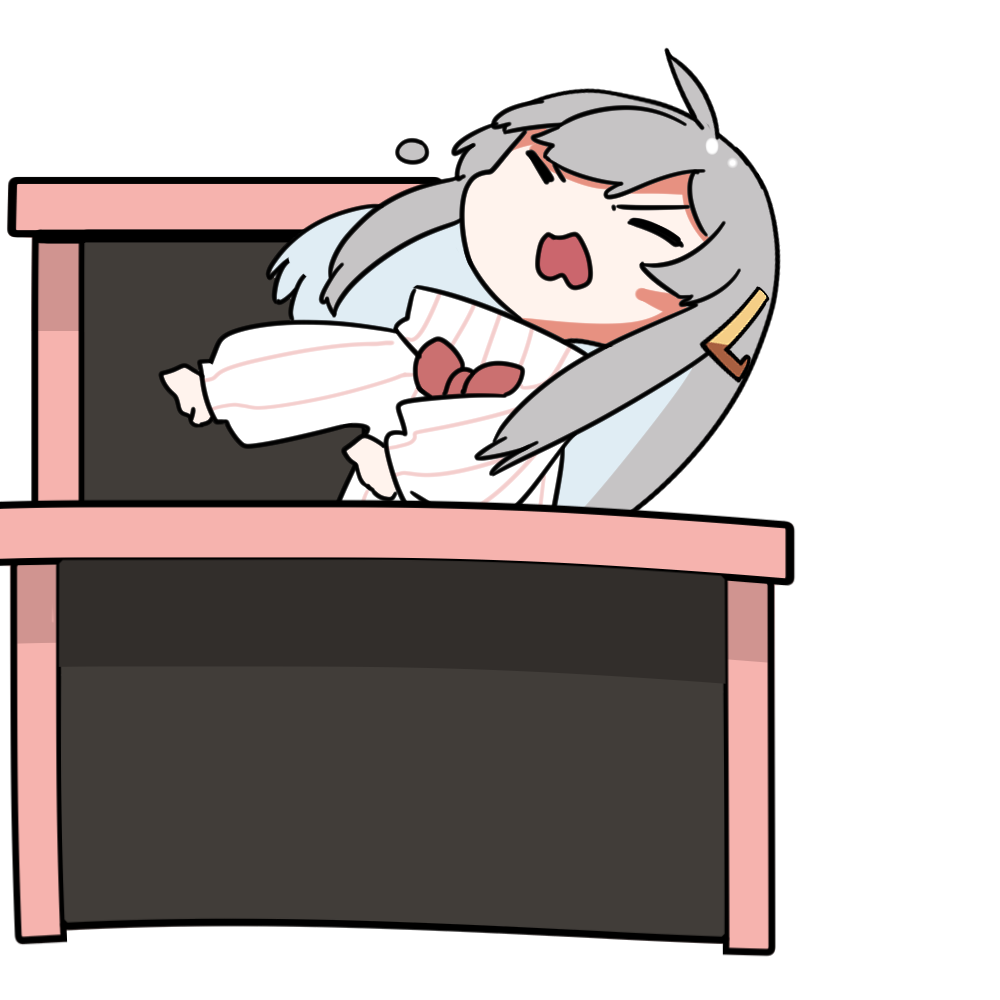
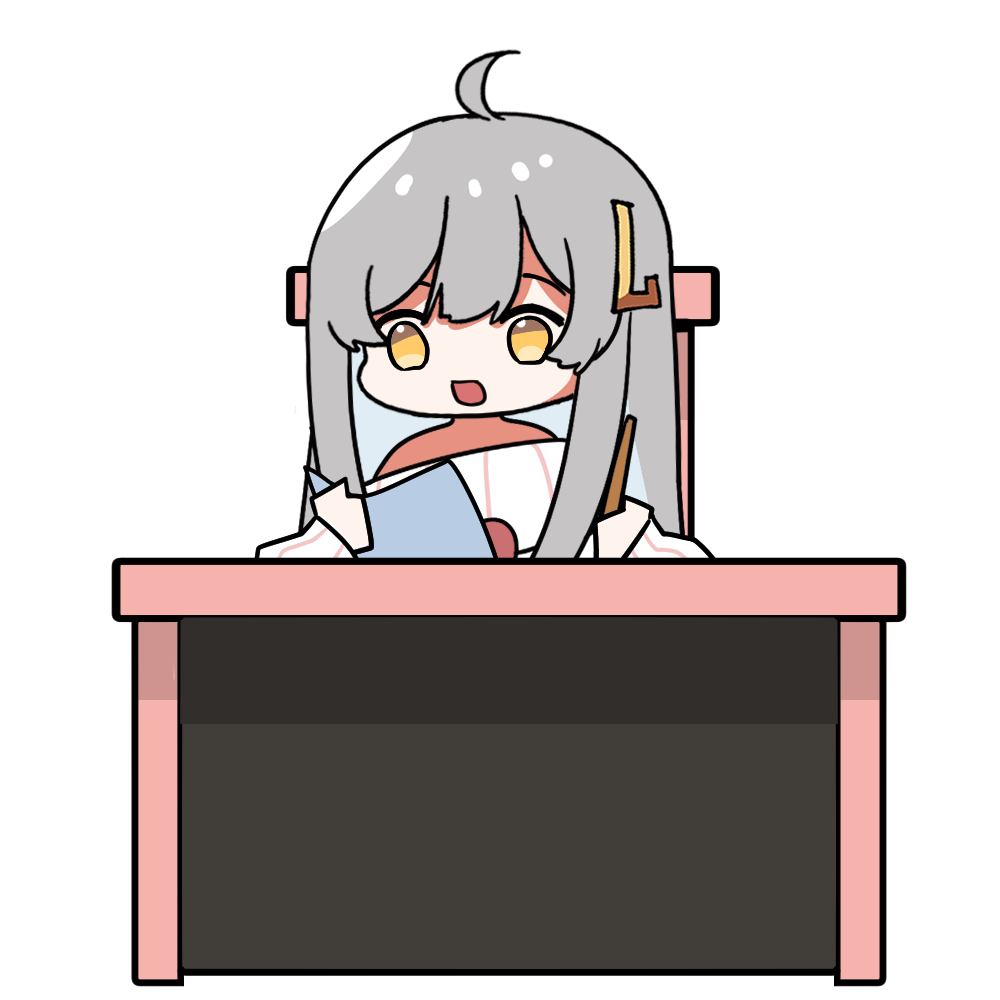
工作动画帧顺序，停止工作

diff --git a/src/ui/interaction/panel.rs b/src/ui/interaction/panel.rs
@@ -9,7 +9,8 @@ use std::rc::Rc;
 use crate::animation::{
     request_study_book_animation, request_study_paint_animation, request_study_research_animation,
     request_study_stop_animation, request_work_clean_animation,
-    request_work_copywriting_animation, request_work_streaming_animation,
+    request_work_copywriting_animation, request_work_stop_animation,
+    request_work_streaming_animation,
 };
 use crate::stats::{InteractType, PetStatsService, StudyMode};
 
@@ -109,6 +110,7 @@ pub struct InteractionPanel {
     study_duration_combo: ComboBoxText,
     action_button: Button,
     stop_study_button: Button,
+    stop_work_button: Button,
     stats_service: PetStatsService,
     on_after_interact: Rc<dyn Fn()>,
 }
@@ -217,6 +219,9 @@ impl InteractionPanel {
         let stop_study_button = Button::with_label("停止学习");
         bottom_actions.append(&stop_study_button);
 
+        let stop_work_button = Button::with_label("停止工作");
+        bottom_actions.append(&stop_work_button);
+
         let close_button = Button::with_label("退出");
         bottom_actions.append(&close_button);
         panel_box.append(&bottom_actions);
@@ -250,6 +255,7 @@ impl InteractionPanel {
             study_duration_combo,
             action_button,
             stop_study_button,
+            stop_work_button,
             stats_service,
             on_after_interact,
         };
@@ -257,6 +263,7 @@ impl InteractionPanel {
         panel.connect_sidebar_handlers();
         panel.connect_action_button();
         panel.connect_stop_study_button();
+        panel.connect_stop_work_button();
         panel.switch_category(category);
 
         panel
@@ -288,6 +295,8 @@ impl InteractionPanel {
             .set_visible(matches!(category, InteractCategory::Study | InteractCategory::Work));
         self.stop_study_button
             .set_visible(category == InteractCategory::Study);
+        self.stop_work_button
+            .set_visible(category == InteractCategory::Work);
         self.status_label.set_text(&format!("当前选项：{}", category.menu_label()));
         self.update_sidebar_state();
     }
@@ -305,6 +314,7 @@ impl InteractionPanel {
             let work_mode_combo = self.work_mode_combo.clone();
             let study_duration_combo = self.study_duration_combo.clone();
             let stop_study_button = self.stop_study_button.clone();
+            let stop_work_button = self.stop_work_button.clone();
 
             button.connect_clicked(move |_| {
                 current_category.set(category);
@@ -316,6 +326,7 @@ impl InteractionPanel {
                 study_duration_combo
                     .set_visible(matches!(category, InteractCategory::Study | InteractCategory::Work));
                 stop_study_button.set_visible(category == InteractCategory::Study);
+                stop_work_button.set_visible(category == InteractCategory::Work);
                 status_label.set_text(&format!("当前选项：{}", category.menu_label()));
 
                 for (button_category, button) in &category_buttons {
@@ -437,6 +448,16 @@ impl InteractionPanel {
             } else {
                 status_label.set_text("当前没有进行中的学习任务");
             }
+        });
+    }
+
+    fn connect_stop_work_button(&self) {
+        let status_label = self.status_label.clone();
+        let on_after_interact = self.on_after_interact.clone();
+        self.stop_work_button.connect_clicked(move |_| {
+            request_work_stop_animation();
+            status_label.set_text("已手动停止工作");
+            on_after_interact();
         });
     }
 

diff --git a/src/animation/requests.rs b/src/animation/requests.rs
@@ -33,6 +33,7 @@ pub(crate) const WORK_ANIM_IDLE: u8 = 0;
 pub(crate) const WORK_ANIM_CLEAN_REQUESTED: u8 = 1;
 pub(crate) const WORK_ANIM_COPYWRITING_REQUESTED: u8 = 2;
 pub(crate) const WORK_ANIM_STREAMING_REQUESTED: u8 = 3;
+pub(crate) const WORK_ANIM_STOP_REQUESTED: u8 = 4;
 
 // ===== 全局请求状态（原子变量） =====
 static DRAG_RAISE_ANIMATION_PHASE: AtomicU8 = AtomicU8::new(DRAG_ANIM_IDLE);
@@ -134,6 +135,10 @@ pub fn request_work_copywriting_animation(duration_secs: u32) {
 pub fn request_work_streaming_animation(duration_secs: u32) {
     WORK_ANIMATION_DURATION_SECS.store(duration_secs.max(1), Ordering::Relaxed);
     WORK_ANIMATION_PHASE.store(WORK_ANIM_STREAMING_REQUESTED, Ordering::Relaxed);
+}
+
+pub fn request_work_stop_animation() {
+    WORK_ANIMATION_PHASE.store(WORK_ANIM_STOP_REQUESTED, Ordering::Relaxed);
 }
 
 pub fn request_animation_config_reload() {

diff --git a/src/animation/coordinator.rs b/src/animation/coordinator.rs
@@ -28,7 +28,7 @@ use super::requests::{
     TOUCH_ANIM_HEAD_REQUESTED, STUDY_ANIM_BOOK_REQUESTED, STUDY_ANIM_PAINT_REQUESTED,
     STUDY_ANIM_RESEARCH_REQUESTED, STUDY_ANIM_STOP_REQUESTED,
     WORK_ANIM_CLEAN_REQUESTED, WORK_ANIM_COPYWRITING_REQUESTED,
-    WORK_ANIM_STREAMING_REQUESTED,
+    WORK_ANIM_STOP_REQUESTED, WORK_ANIM_STREAMING_REQUESTED,
 };
 
 // ===== 运行时播放器集合 =====
@@ -528,6 +528,11 @@ fn dispatch_requests(players: &mut PlayerSet, reqs: AnimationRequests) {
             players
                 .work
                 .start_research(&mut players.startup, reqs.work_duration_secs as u64);
+            return;
+        }
+        WORK_ANIM_STOP_REQUESTED => {
+            players.work.clear_pending_resume_after_drag();
+            players.work.interrupt(false);
             return;
         }
         _ => {}

diff --git a/src/animation/mod.rs b/src/animation/mod.rs
@@ -15,6 +15,6 @@ pub use requests::{
     request_study_book_animation, request_study_paint_animation,
     request_study_research_animation, request_study_stop_animation,
     request_work_clean_animation, request_work_copywriting_animation,
-    request_work_streaming_animation,
+    request_work_stop_animation, request_work_streaming_animation,
     request_touch_body_animation, request_touch_head_animation,
 };
